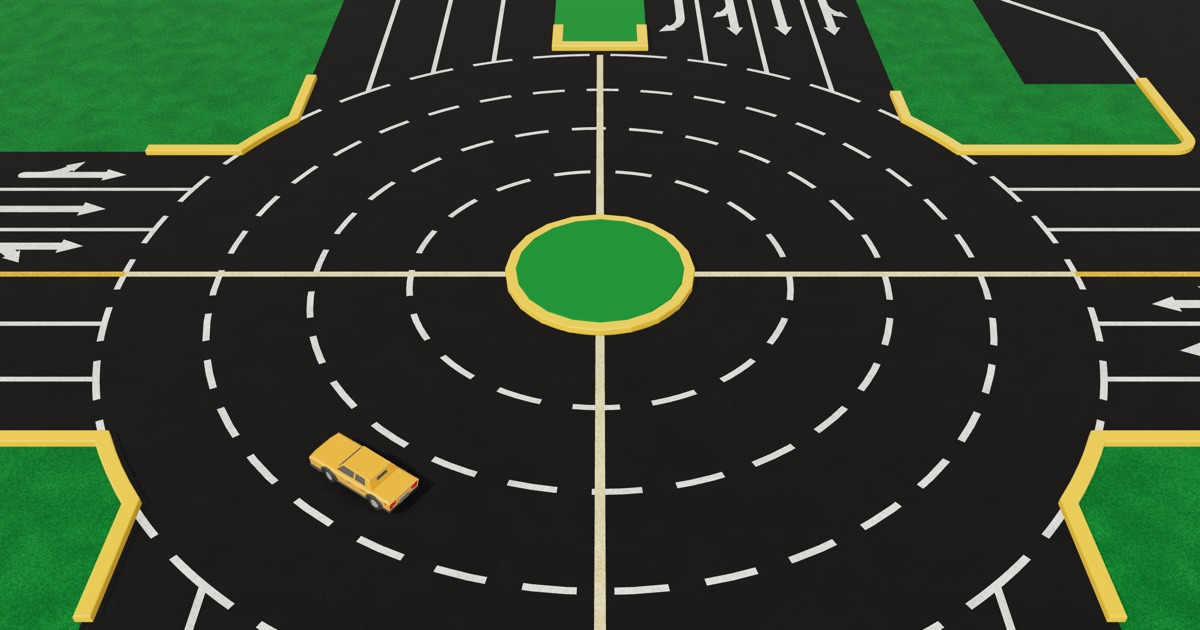
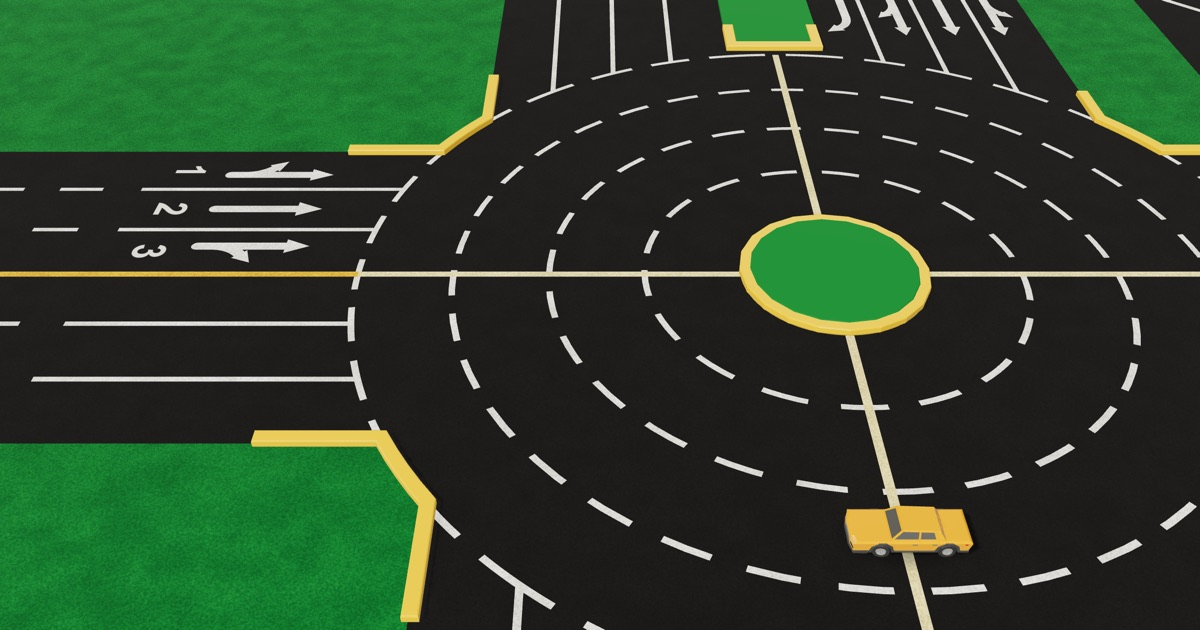
chore: keep the thumbnail's play button off the roundabout island
Every card that shows the board picture puts its play button in the middle,
which sat on the island. The still now frames the roundabout with the island
right of the middle and the yellow car crossing the cross's south arm below
the button, checked in each card shape (4:3, 5:2, 3:1). Recaptured both
posters and the social card, and the alt text now describes this picture.

diff --git a/app/routes/tools/og.tsx b/app/routes/tools/og.tsx
@@ -425,19 +425,19 @@ const STILL_CARS = [
 ] as const;
 
 const STILL = {
-  // The roundabout as a phone shows it while driving round: the whole ring,
-  // its pale cross and every road's mouth, with the yellow car going round in
-  // lane 2 towards the first exit (owner, 2026-11-21). A landscape picture
-  // needs a little more width than the phone's 47 m to fit the ring top to
-  // bottom. Seen from the south, as on a phone.
+  // The roundabout as a phone shows it while driving round: the ring, its
+  // pale cross and the yellow car going round in lane 2, crossing the cross
+  // (owner, 2026-11-21). The island sits right of the middle: `BoardThumb`
+  // puts its play button in the middle and its line top left, and the owner
+  // asked that the button not cover the island. Seen from the south.
   seat: "south",
-  x: 0,
+  x: -11,
   z: 3,
   span: 54,
   // On the ring at this bearing, in degrees. `?carx=` stands it on a road
   // instead (the earlier picture: `x=-3&z=24&span=76&carx=-8.4`).
   onRing: true,
-  bearing: 215,
+  bearing: 180,
   lane: 2,
   car: { x: -8.4, z: 38, heading: 8 },
   // a right lock to follow ring lane 2 round the island

diff --git a/app/components/board/board-thumb.tsx b/app/components/board/board-thumb.tsx
@@ -21,7 +21,7 @@ const WIDTH = 1200;
 const HEIGHT = 630;
 
 export const BOARD_THUMB_ALT =
-  "The Model Town Board game: a yellow car on the four-lane road, coming up to the lane arrows numbered 1 to 4 and the roundabout.";
+  "The Model Town Board game: a yellow car going round the roundabout, past the green island and the pale yellow cross marking each road.";
 
 export function BoardThumb({
   className,
